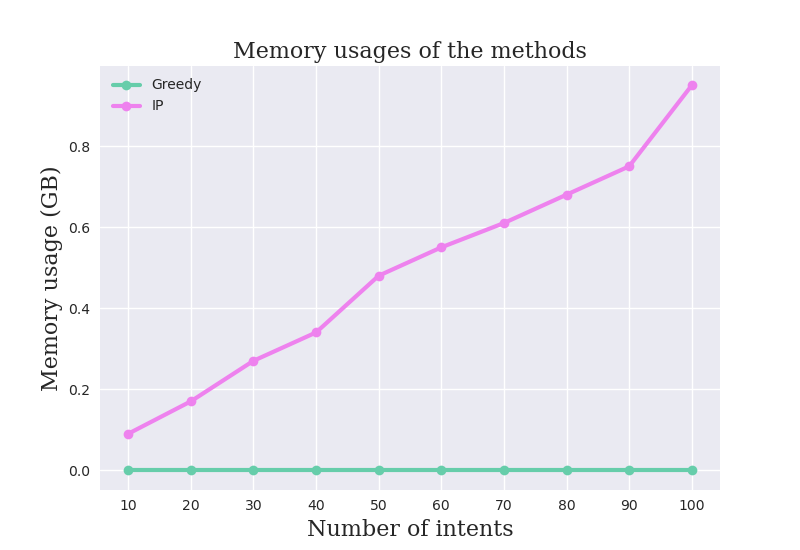
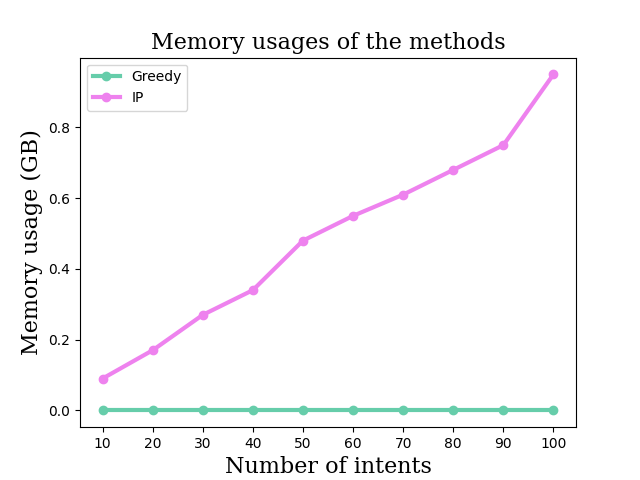
Moved plotting to a separate file and updated plots

diff --git a/merge_results.py b/merge_results.py
@@ -1,15 +1,14 @@
 """
 File description:
 -----------------
-This file is used to merge results from subresult forlders into a unified folder.
+This file is used to merge results from subresult folders into a single folder.
 """
 
 import argparse
 import os
 
-import matplotlib.pyplot as plt
-import numpy as np
 import pandas as pd
+from plot_results import plot_results
 
 parser = argparse.ArgumentParser()
 parser.add_argument('--curr_dir_name', required=True, type=str,
@@ -57,44 +56,6 @@ def merge_dfs(curr_dir_name, merged_dir_name, start, stop, step):
     return merged_df
 
 
-def plot_merged_results(dataframe, name):
-    """Creating plots of the data in the merged dataframes and saving them to disk."""
-    plt.style.use("seaborn")
-
-    greedy_color, ip_color = 'mediumaquamarine', 'violet'
-    data = [[dataframe.greedy_obj, dataframe.ip_obj],
-            [dataframe.greedy_runtime, dataframe.ip_runtime],
-            [dataframe.greedy_memory_usage, dataframe.ip_memory_usage]]
-    x_label = 'Number of intents'
-    y_labels = ['Cost', 'Runtime (min)', 'Memory usage (GB)']
-    titles = ['Objectives of the methods', 'Runtimes of the methods', 'Memory usages of the methods']
-    plot_names = ['objective', 'runtime', 'memory_usage']
-    x_axis = dataframe.num_intents.values
-    fontsize = 16
-    linewidth = 3
-
-    for indx, elem in enumerate(data):
-        mask0, mask1 = np.isfinite(elem[0]), np.isfinite(elem[1])
-        fig, ax = plt.subplots(1, 1)
-        ax.plot(x_axis[mask0], elem[0][mask0], marker='o', ls='-',
-                linewidth=linewidth, color=greedy_color, label='Greedy')
-
-        ax.plot(x_axis[mask1], elem[1][mask1], marker='o', ls='-',
-                linewidth=linewidth, color=ip_color, label='IP')
-
-        ax.set_xlabel(x_label, family='serif', fontsize=fontsize)
-        ax.set_ylabel(y_labels[indx], family='serif', fontsize=fontsize)
-        ax.set_title(titles[indx], family='serif', fontsize=fontsize)
-        ax.set_xticks(x_axis)
-
-        ax.legend()
-
-        fig.savefig(f'./results/{name}/{plot_names[indx]}.png')
-        print("Plotting done.")
-
-    return
-
-
 if __name__ == "__main__":
     args = parser.parse_args()
 
@@ -105,7 +66,7 @@ if __name__ == "__main__":
 
     merged_dataframe = merge_dfs(dir_name, merged_name, starting_from, stop_at, step_with)
 
-    plot_merged_results(merged_dataframe, merged_name)
+    plot_results(merged_dataframe, merged_name)
 
 # ================= END OF FILE =================
 

diff --git a/plot_results.py b/plot_results.py
@@ -1,0 +1,57 @@
+import argparse
+
+import matplotlib.pyplot as plt
+import numpy as np
+import pandas as pd
+
+parser = argparse.ArgumentParser()
+parser.add_argument('--curr_dir_name', required=True, type=str,
+                    help="Base name of directory where results are saved. "
+                         "in this case `curr_dir_name` is `stockholm_medium.`")
+
+def plot_results(dataframe, name):
+    """Creating plots of the data in the merged dataframes and saving them to disk."""
+    # plt.style.use("seaborn")
+
+    greedy_color, ip_color = 'mediumaquamarine', 'violet'
+    data = [[dataframe.greedy_obj/60, dataframe.ip_obj/60],
+            [dataframe.greedy_runtime, dataframe.ip_runtime],
+            [dataframe.greedy_memory_usage, dataframe.ip_memory_usage]]
+    x_label = 'Number of intents'
+    y_labels = ['Total travel time extension (min)', 'Runtime (min)', 'Memory usage (GB)']
+    titles = ['', 'Runtimes of the methods', 'Memory usages of the methods']
+    plot_names = ['objective', 'runtime', 'memory_usage']
+    x_axis = dataframe.num_intents.values
+    fontsize = 16
+    linewidth = 3
+
+    for indx, elem in enumerate(data):
+        mask0, mask1 = np.isfinite(elem[0]), np.isfinite(elem[1])
+        fig, ax = plt.subplots(1, 1)
+        ax.plot(x_axis[mask0], elem[0][mask0], marker='o', ls='-',
+                linewidth=linewidth, color=greedy_color, label='Greedy')
+
+        ax.plot(x_axis[mask1], elem[1][mask1], marker='o', ls='-',
+                linewidth=linewidth, color=ip_color, label='IP')
+
+        ax.set_xlabel(x_label, family='serif', fontsize=fontsize)
+        ax.set_ylabel(y_labels[indx], family='serif', fontsize=fontsize)
+        ax.set_title(titles[indx], family='serif', fontsize=fontsize)
+        ax.set_xticks(x_axis)
+
+        ax.legend()
+
+        fig.savefig(f'./results/{name}/{plot_names[indx]}.png')
+        print("Plotting done.")
+
+    return
+
+
+if __name__ == "__main__":
+    args = parser.parse_args()
+
+    dir_name = args.curr_dir_name
+
+    df = pd.read_pickle(f"./results/{dir_name}/data.pickle")
+
+    plot_results(df, dir_name)
